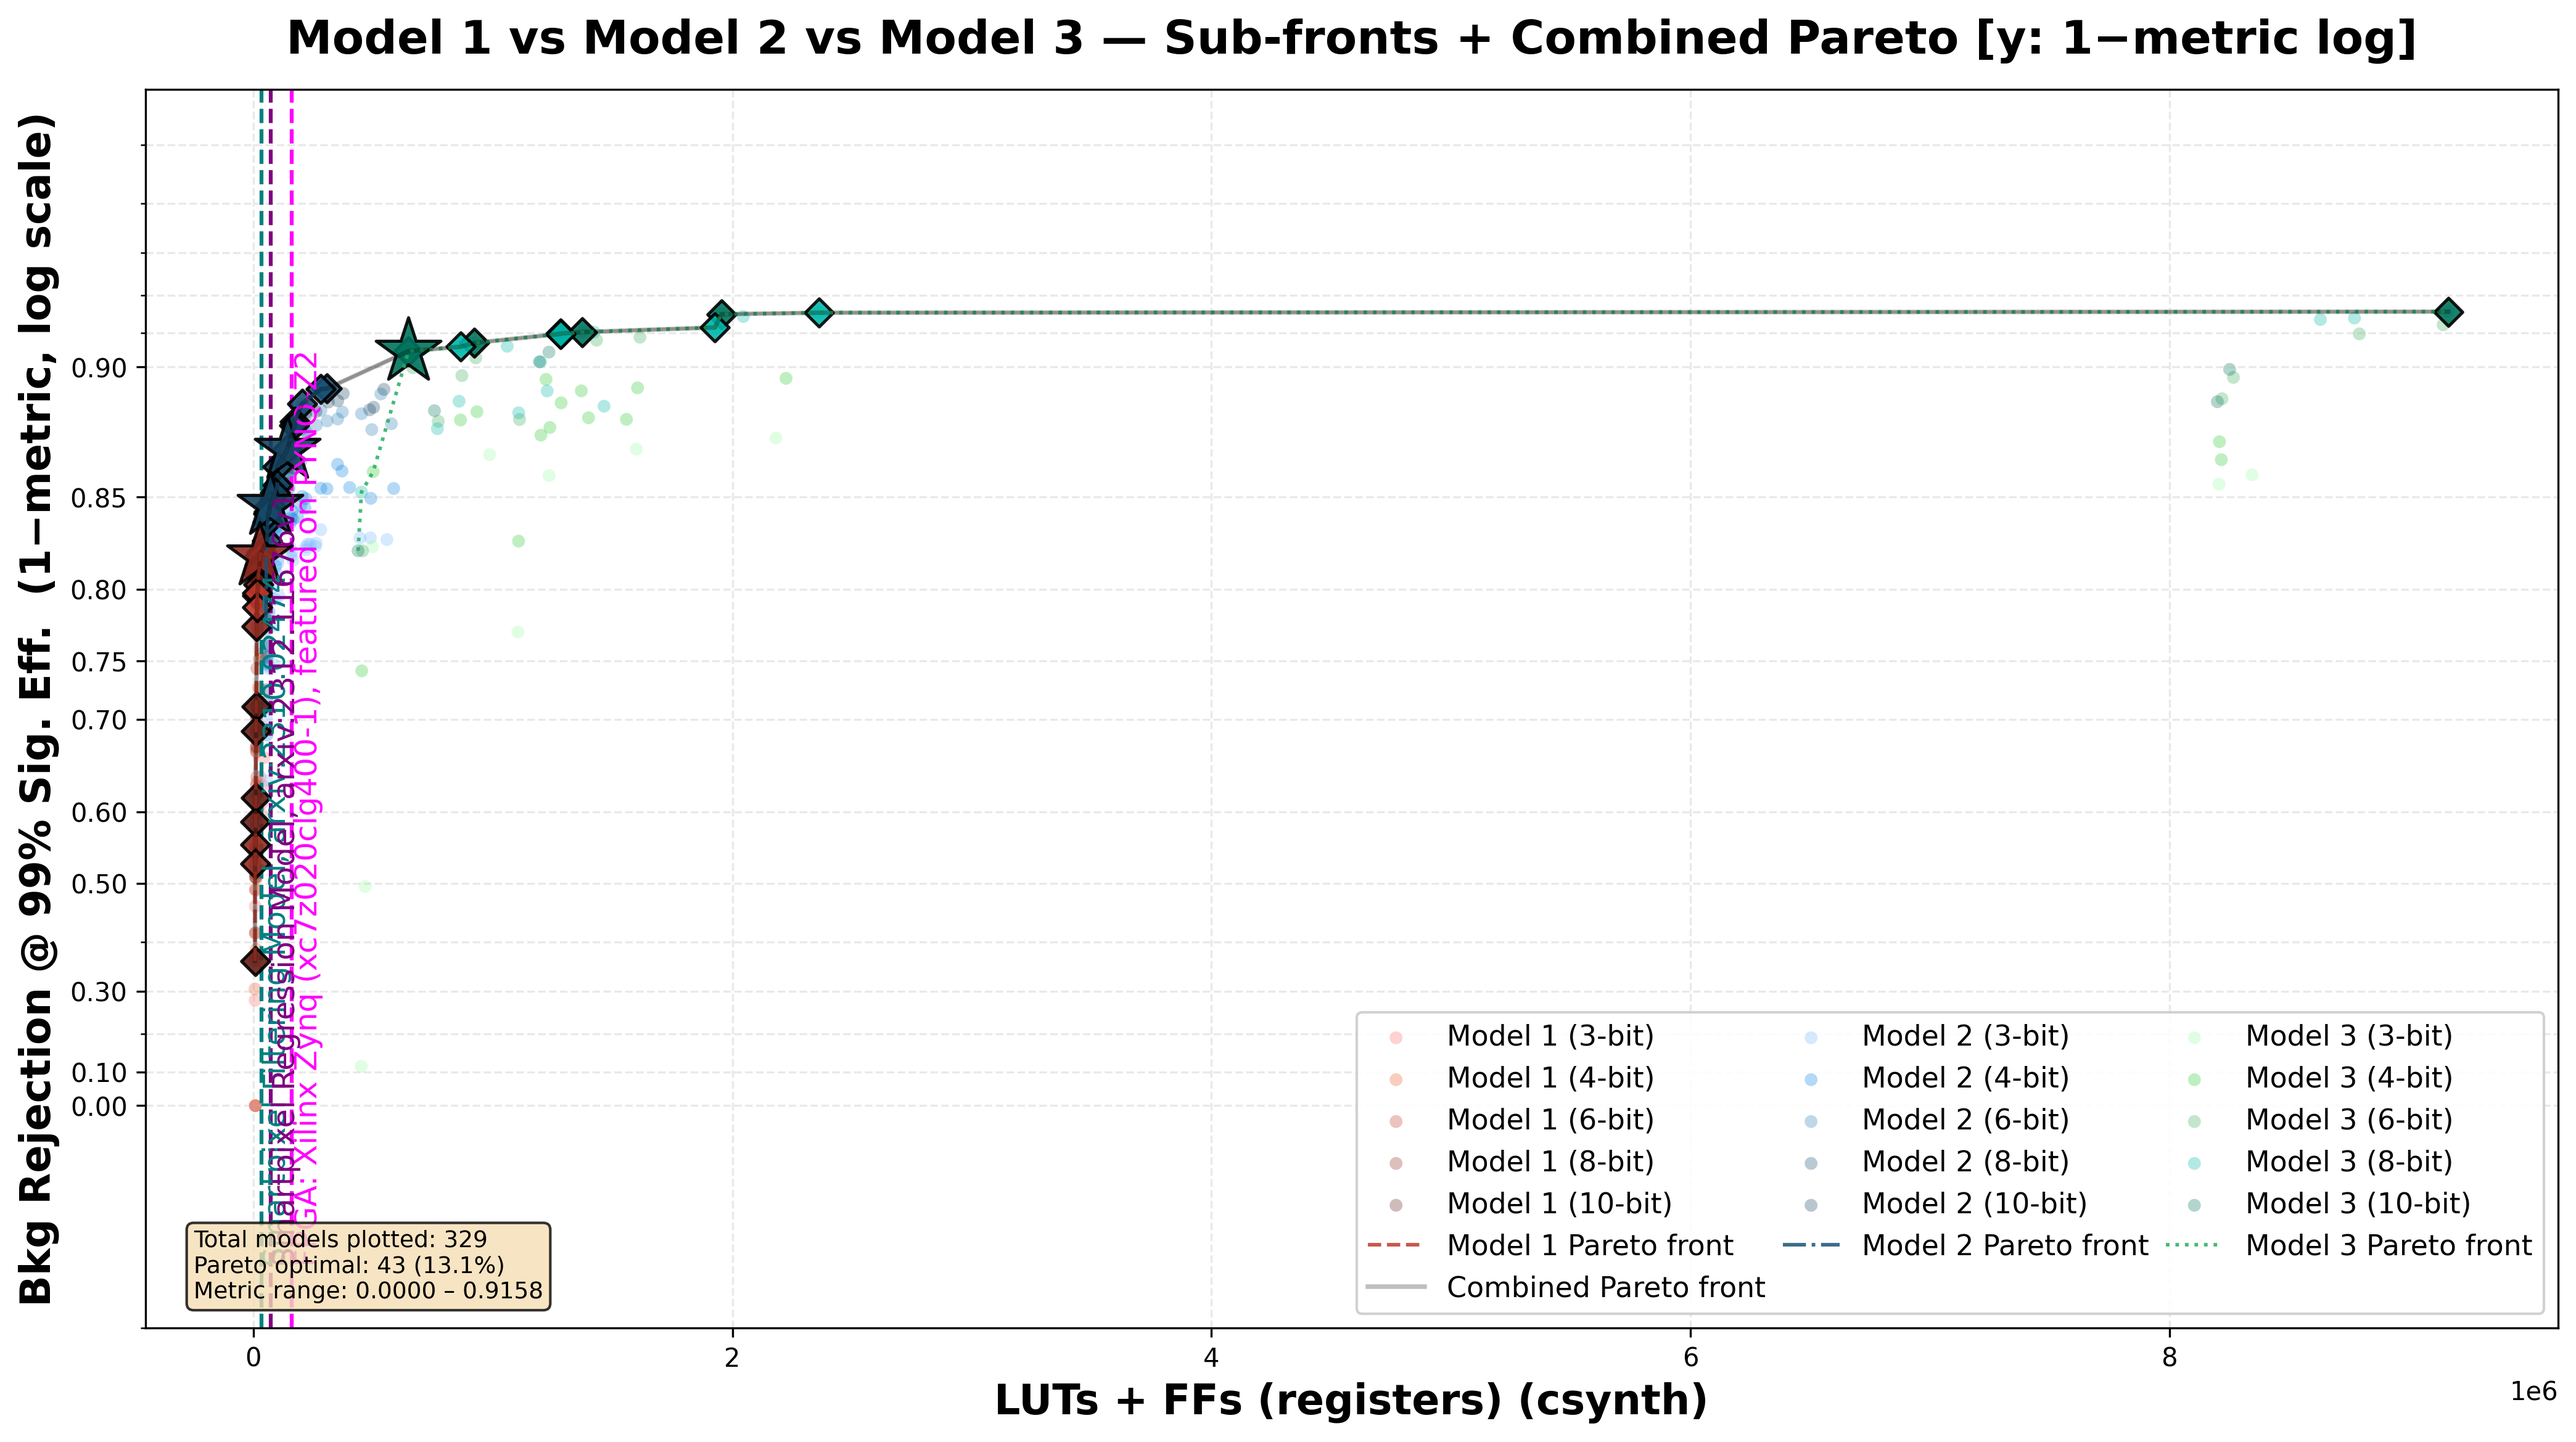
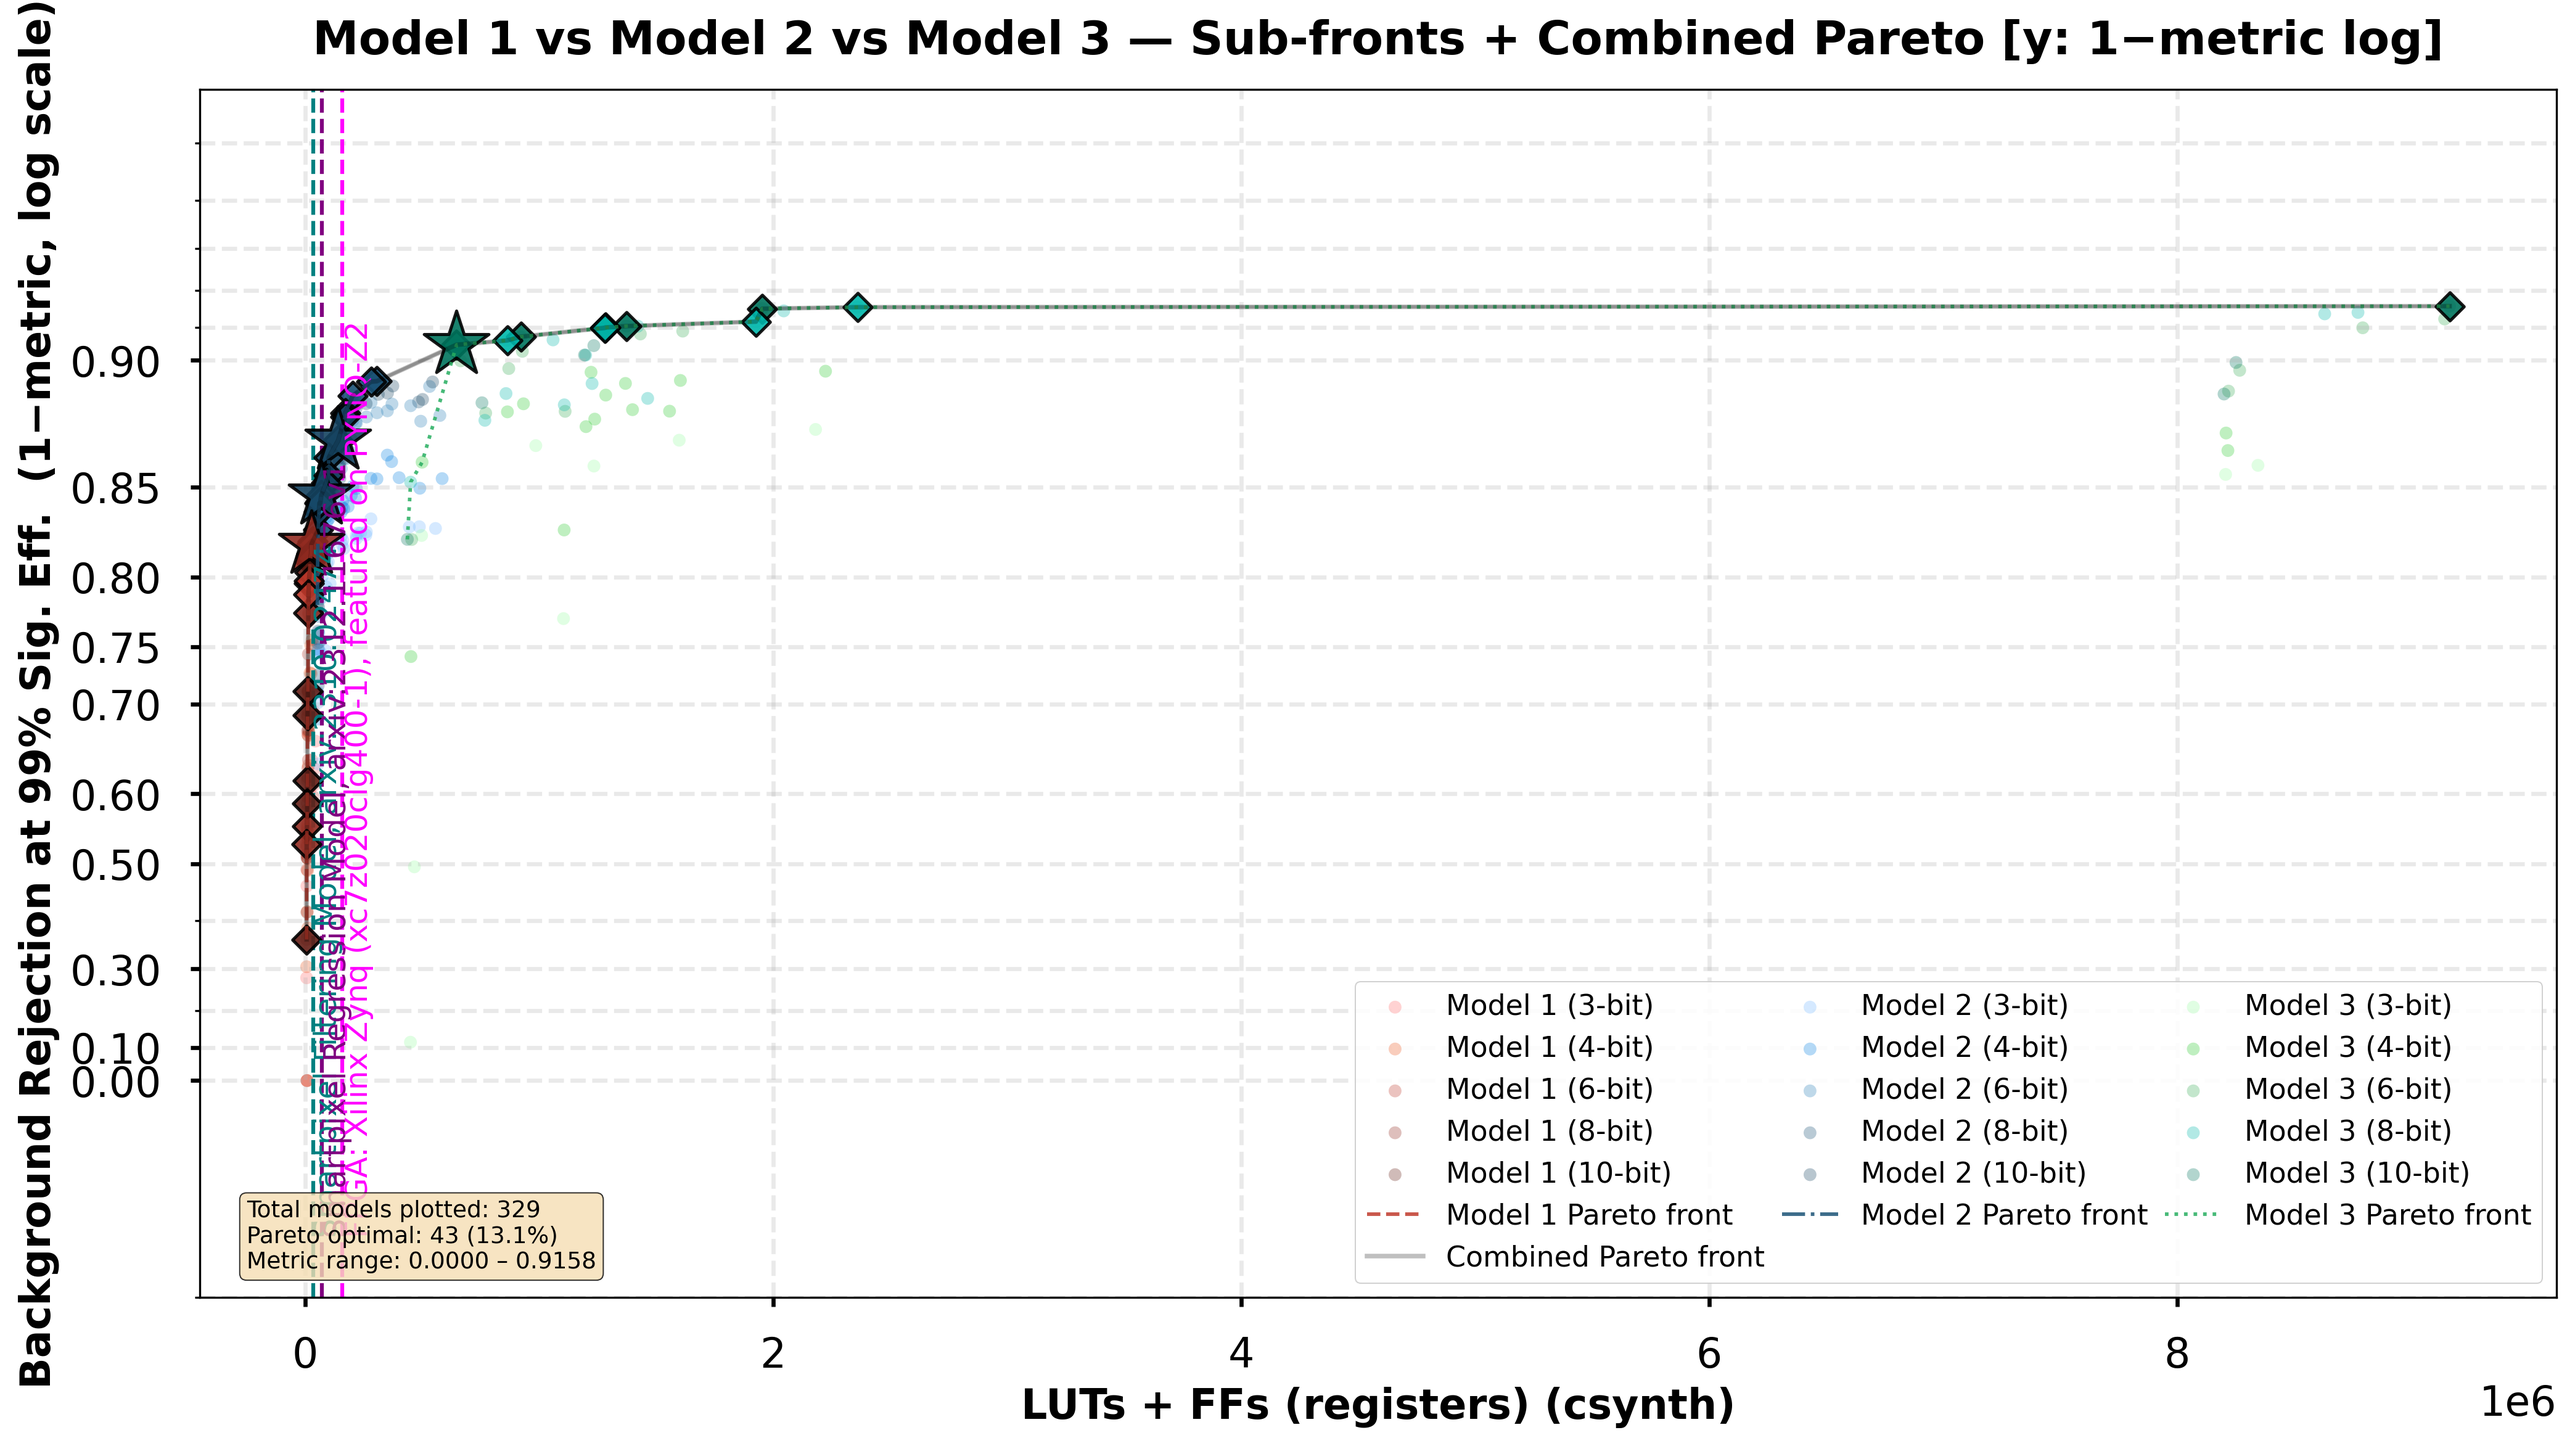
Modified cross pareto plot to use seaborn poster
Also modified figsize of some of the plots.

diff --git a/paperPlots/pareto_all_models.py b/paperPlots/pareto_all_models.py
@@ -58,7 +58,7 @@ PRIMARY_METRIC = "bkg_rej_@99%"
 if PRIMARY_METRIC == "primary_metric":
     METRIC_NAME = "Weighted Bkg Rejection"
 elif PRIMARY_METRIC == "bkg_rej_@99%":
-    METRIC_NAME = "Bkg Rejection @ 99% Sig. Eff."
+    METRIC_NAME = "Background Rejection at 99% Sig. Eff."
 else:
     raise ValueError("invalid PRIMARY_METRIC")
 
@@ -150,6 +150,7 @@ SELECTED_MODELS = [
 # ("model1_8w10i","1028"),
 ]
 styleSheet = "seaborn-v0_8-colorblind"
+styleSheet = "seaborn-v0_8-poster"
 plt.style.use(styleSheet)
 # ── HLS resource extraction ────────────────────────────────────────────────────
 def _lut_ff_from_vsynth_log(log_path):
@@ -620,10 +621,11 @@ def make_plot_simple(df, pareto_df, output_dir, zoomed=False, annotate=True):
 
 
 def make_plot_subfronts(df, pareto_df, pareto_m1, pareto_m25, pareto_m3,
-                        output_dir, xscale="linear", complement=False, annotate=True):
+                        output_dir, xscale="linear", complement=False, annotate=True,
+                        figsize=(14,9*14/16)):
     x_col = "luts_plus_ff"
     fig, ax = plt.subplots(figsize=(16, 9))
-    fig, ax = plt.subplots(figsize=(14, 9*14/16))
+    fig, ax = plt.subplots(figsize=figsize)
     _draw_scatter(ax, df, pareto_df, x_col, complement=complement, annotate=annotate)
     _draw_subfronts(ax, pareto_m1, pareto_m25, pareto_m3, pareto_df,
                     x_col, complement=complement)
@@ -727,9 +729,11 @@ def main():
         make_plot_simple(df, pareto_all, OUTPUT_DIR, zoomed=False, annotate=annotate)
         make_plot_simple(df, pareto_all, OUTPUT_DIR, zoomed=True,  annotate=annotate)
         make_plot_subfronts(df, pareto_all, pareto_m1, pareto_m25, pareto_m3,
-                            OUTPUT_DIR, xscale="linear", complement=False, annotate=annotate)
+                            OUTPUT_DIR, xscale="linear", complement=False, annotate=annotate,
+                            figsize=(13,9*13/16))
         make_plot_subfronts(df, pareto_all, pareto_m1, pareto_m25, pareto_m3,
-                            OUTPUT_DIR, xscale="log",    complement=False, annotate=annotate)
+                            OUTPUT_DIR, xscale="log",    complement=False, annotate=annotate,
+                            figsize=(13.4,9*13.2/16))
         make_plot_subfronts(df, pareto_all, pareto_m1, pareto_m25, pareto_m3,
                             OUTPUT_DIR, xscale="linear", complement=True,  annotate=annotate)
         make_plot_subfronts(df, pareto_all, pareto_m1, pareto_m25, pareto_m3,
